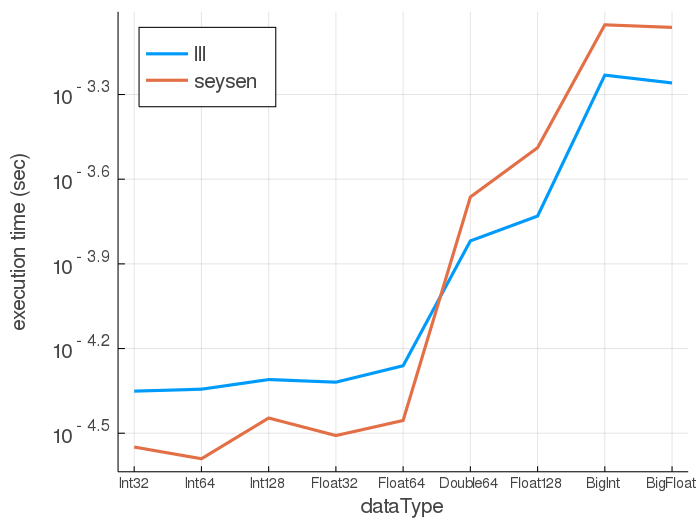
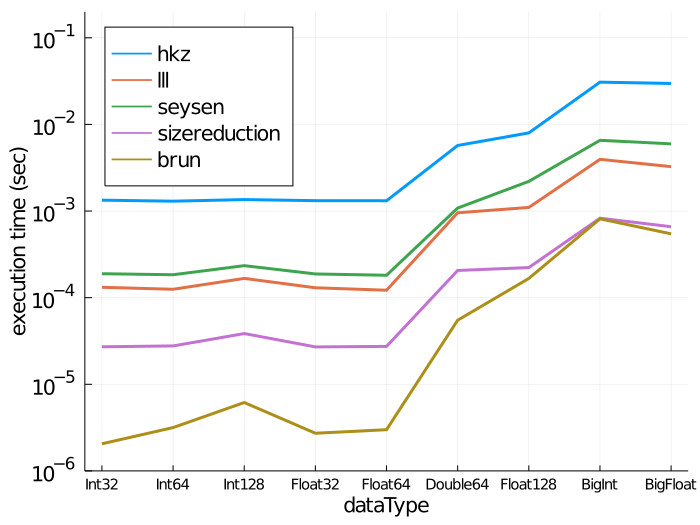
lll for Rational bases

diff --git a/docs/src/index.md b/docs/src/index.md
@@ -4,27 +4,28 @@
 CurrentModule = LLLplus
 ```
 
-LLLplus includes
+LLLplus provides
 [Lenstra-Lenstra-Lovász](https://en.wikipedia.org/wiki/Lenstra%E2%80%93Lenstra%E2%80%93Lov%C3%A1sz_lattice_basis_reduction_algorithm)
-(LLL), [Brun](https://en.wikipedia.org/wiki/Viggo_Brun), and Seysen
-lattice reduction; and solvers for the
+(LLL) lattice reduction, solvers for the
 [shortest vector problem](https://en.wikipedia.org/wiki/Lattice_problem#Shortest_vector_problem_(SVP))
 (SVP) and the [closest vector problem](https://en.wikipedia.org/wiki/Lattice_problem#Closest_vector_problem_.28CVP.29)
-(CVP). These tools are
+(CVP), and related algorithms. These tools are
 used in cryptography, digital communication, and integer programming.
 This package is experimental and not a robust tool; use at your own
 risk :-)
 
-LLL [1] lattice reduction is a powerful tool that is widely used in
+LLL lattice reduction is a powerful tool that is widely used in
 cryptanalysis, in cryptographic system design, in digital
 communications, and to solve other integer problems. The historical
 and practical prominence of the LLL technique in lattice tools is the
-reason for its use in the name "LLLplus". LLL reduction is
-often used as an approximate solution to the SVP.
-We also include Brun [2] and Seysen [3]
-lattice reduction techniques. The LLL, Brun, and Seysen algorithms are
-based on [4]. The CVP solver is based on [5] and can handle lattices
-and bounded integer constellations while the SVP solver is based on [6].
+reason for its use in the name "LLLplus". LLL reduction is often used
+as an approximate solution to the SVP.  We also include
+[Brun](https://archive.org/stream/skrifterutgitavv201chri#page/300/mode/2up)
+integer relations,
+[Seysen](http://link.springer.com/article/10.1007%2FBF01202355)
+lattice reduction, and
+[Hermite-Korkine-Zolotarev](http://www.cas.mcmaster.ca/~qiao/publications/ZQW11.pdf)
+lattice reduction techniques.
 
 One application of lattice tools is in cryptanalysis; as an demo of a
 cryptanalytic attack, see the `subsetsum` function.  The LLL algorithm
@@ -115,7 +116,7 @@ BigFloat) as well as type from external packages (Float128 from
 [Quadmath.jl](https://github.com/JuliaMath/Quadmath.jl) and Double64
 from [DoubleFloat.jl](https://github.com/JuliaMath/DoubleFloats.jl))
 which are used to 
-generate 40 128x128 matrices, over which execution time for the
+generate 60 16x16 matrices, over which execution time for the
 lattice reduction techniques is averaged.  The vertical axis is a
 logarithmic representation of execution time as in the previous
 figure. This figure was generated using code in `test/perftest.jl`.
@@ -124,14 +125,9 @@ figure. This figure was generated using code in `test/perftest.jl`.
 
 ### Notes
 
-There are certainly many improvements and additions that could be made
-to LLLplus. Even so, it would be hard to compete with
-[fplll](https://github.com/fplll/fplll) on features. In fact, a Julia
-wrapper around [fplll](https://github.com/fplll/fplll) would be the most
-useful addition to lattice tools in Julia.
-
-The algorithm pseudocode in the monograph [7] and the survey paper [4]
-were very helpful in writing the lattice reduction tools in LLLplus
+The algorithm pseudocode in a [survey paper by Wuebben](http://www.ant.uni-bremen.de/sixcms/media.php/102/10740/SPM_2011_Wuebben.pdf) and the
+[monograph by Bremner](https://www.amazon.com/Lattice-Basis-Reduction-Introduction-Applications/dp/1439807027) 
+were helpful in writing the lattice reduction tools in LLLplus
 and are a good resource for further study. If you are trying to break
 one of the [Lattice Challenge](http://www.latticechallenge.org)
 records or are looking for robust, well-proven lattice tools, look at
@@ -141,31 +137,3 @@ number-theoretic problems the
 it uses the [FLINT](http://flintlib.org/) C library to do LLL
 reduction on Nemo-specific data types.  Finally, no number theorists
 have worked on LLLplus; please treat the package as experimental.
-
-### References
-
-[1] A. K. Lenstra; H. W. Lenstra Jr.; L. Lovász, ["Factoring polynomials with rational coefficients"](http://ftp.cs.elte.hu/~lovasz/scans/lll.pdf). Mathematische Annalen 261, 1982.
-
-[2] V. Brun,
-["En generalisation av kjedebrøken I,"](https://archive.org/stream/skrifterutgitavv201chri#page/300/mode/2up)
-Skr. Vidensk. Selsk. Kristiana, Mat. Nat. Klasse, 1919.
-
-[3] M. Seysen, ["Simultaneous reduction of a lattice basis and its reciprocal basis"](http://link.springer.com/article/10.1007%2FBF01202355) Combinatorica, 1993.
-
-[4] D. Wuebben, D. Seethaler, J. Jalden, and G. Matz, ["Lattice Reduction - A Survey with Applications in Wireless Communications"](http://www.ant.uni-bremen.de/sixcms/media.php/102/10740/SPM_2011_Wuebben.pdf). IEEE Signal Processing Magazine, 2011.
-
-[5] A. Ghasemmehdi, E. Agrell, ["Faster Recursions in Sphere Decoding"](https://publications.lib.chalmers.se/records/fulltext/local_141586.pdf) IEEE
-Transactions on Information Theory, vol 57, issue 6 , June 2011.
-
-[6] E. Agrell, T. Eriksson, A. Vardy, and K. Zeger, ["Closest Point Search in
-Lattices"](https://www.researchgate.net/publication/3080772_Closest_point_search_in_lattices_IEEE_Trans_Inf_Theory)
-IEEE Transactions on Information Theory, vol. 48, no. 8, August 2002.
-
-[7] M. R. Bremner, ["Lattice Basis Reduction: An Introduction to the LLL
- Algorithm and Its Applications"](https://www.amazon.com/Lattice-Basis-Reduction-Introduction-Applications/dp/1439807027) CRC Press, 2012.
-
-
-
-## List of Functions
-```@index
-```

diff --git a/README.md b/README.md
@@ -42,7 +42,10 @@ and thereby decode multi-antenna signals.
 Finally, to see how the LLL can be used to find spigot formulas for
 irrationals, see `spigotBBP`.
 
-### Examples
+
+<details>
+   <summary><b>Examples</b> (click for details)</summary>
+<p>
 
 Each function contains documentation and examples available via Julia's
 built-in documentation system, for example with `?lll`. Documentation
@@ -71,8 +74,12 @@ y=H*u+rand(N)/100;
 uhat=cvp(Q'*y,R);
 sum(abs.(u-uhat))
 ```
+</p>
+</details>
 
-### Execution Time results
+<details>
+   <summary><b>Execution Time results</b> (click for details)</summary>
+<p>
 
 In the first test we compare the `lll` function from LLLplus, the
 `l2avx` function in the `src\l2.jl` file in LLLplus, the
@@ -115,20 +122,19 @@ BigFloat) as well as type from external packages (Float128 from
 [Quadmath.jl](https://github.com/JuliaMath/Quadmath.jl) and Double64
 from [DoubleFloat.jl](https://github.com/JuliaMath/DoubleFloats.jl))
 which are used to 
-generate 40 128x128 matrices, over which execution time for the
+generate 60 16x16 matrices, over which execution time for the
 lattice reduction techniques is averaged.  The vertical axis is a
 logarithmic representation of execution time as in the previous
 figure. This figure was generated using code in `test/perftest.jl`.
 
 ![Time vs data type](docs/src/assets/perfVsDataType.png)
 
-### Notes
+</p>
+</details>
 
-There are certainly many improvements and additions that could be made
-to LLLplus. Even so, it would be hard to compete with
-[fplll](https://github.com/fplll/fplll) on features. In fact, a Julia
-wrapper around [fplll](https://github.com/fplll/fplll) would be the most
-useful addition to lattice tools in Julia.
+<details>
+   <summary><b>Notes</b> (click for details)</summary>
+<p>
 
 The algorithm pseudocode in a [survey paper by Wuebben](http://www.ant.uni-bremen.de/sixcms/media.php/102/10740/SPM_2011_Wuebben.pdf) and the
 [monograph by Bremner](https://www.amazon.com/Lattice-Basis-Reduction-Introduction-Applications/dp/1439807027) 

diff --git a/docs/src/functions.md b/docs/src/functions.md
@@ -21,7 +21,8 @@ end
     integerfeasibility
     rationalapprox
     spigotBBP
-    hard_sphere
+    hkz
+    ishkzreduced
     issizereduced
     islllreduced
     orthogonalitydefect
